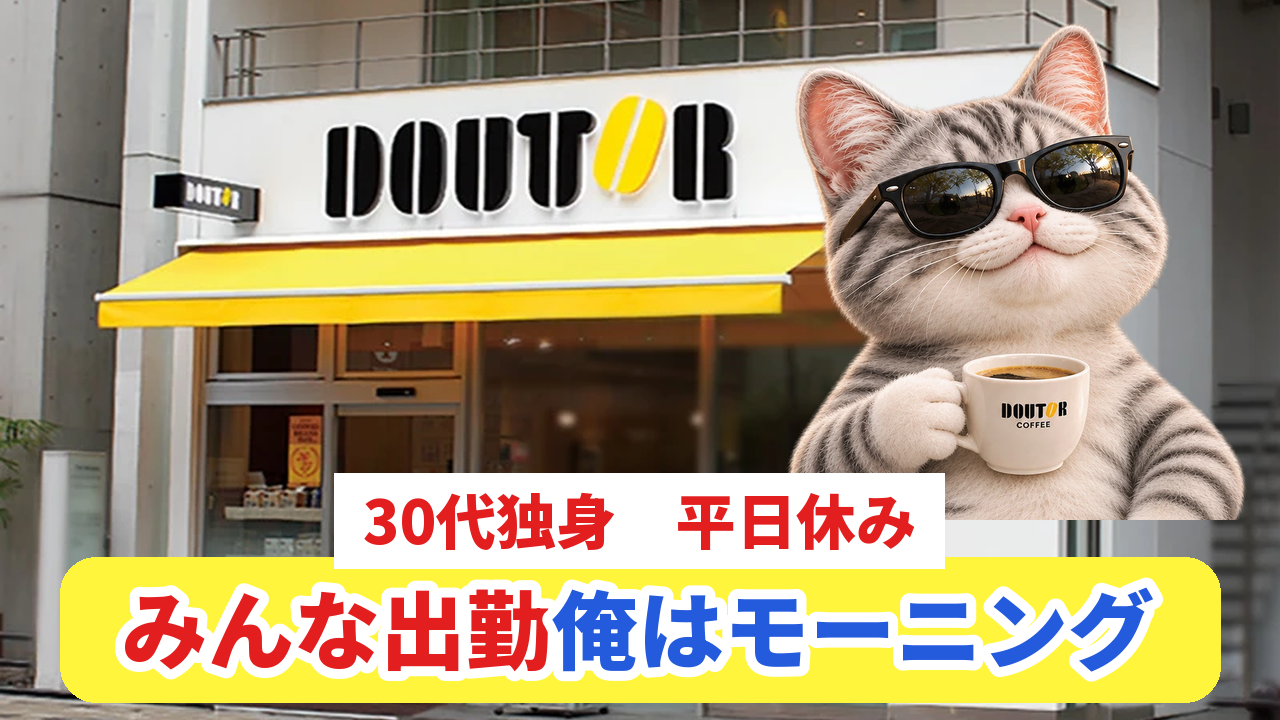
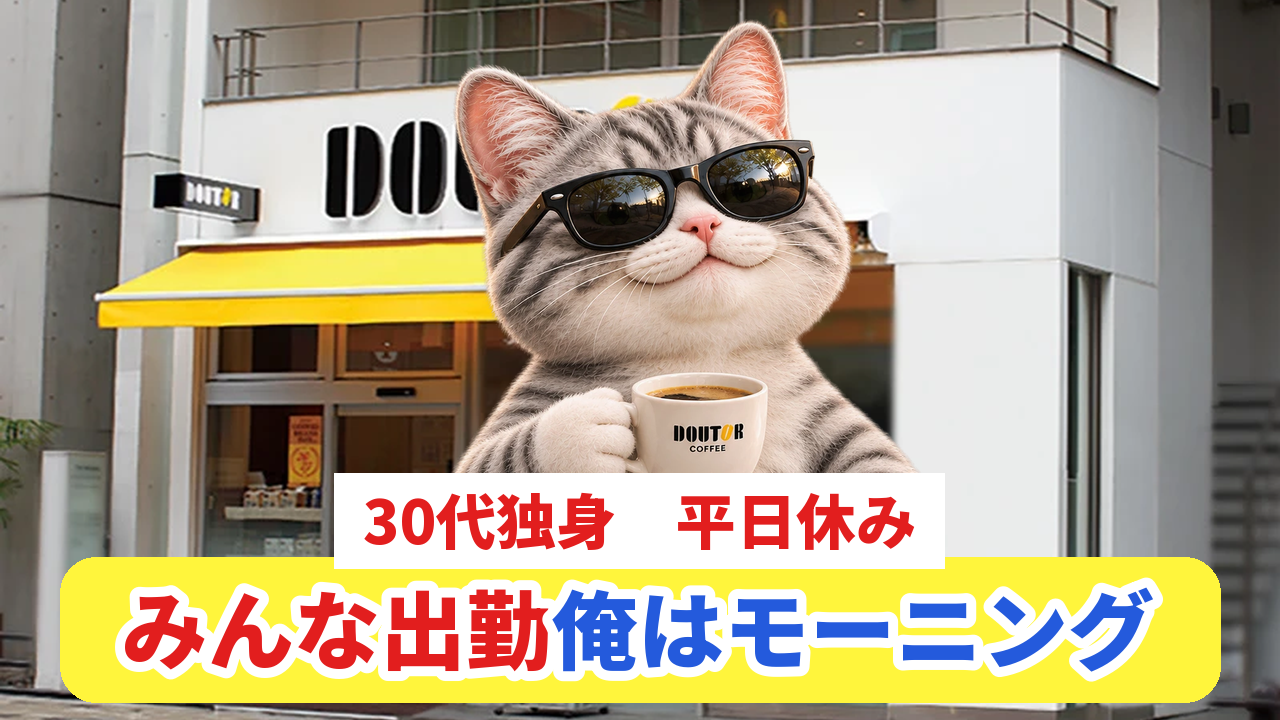
自堕落 #27 ドトール サムネ：猫を真ん中に
Claude-Session: https://claude.ai/code/session_011g9CsrfFD5YswfNSvNDW39

Changed region(s): [[0.3438, 0.0306, 1.0, 0.7333]]

diff --git a/catmeme/make_thumb_doutor.py b/catmeme/make_thumb_doutor.py
@@ -18,9 +18,9 @@ def one(name, runs, tag="30代独身　給料日の夜"):
     img = T.fill_photo("dt01_front", T.W, T.H, cy=0.3)
     cat = Image.open(os.path.join(D, "t_cat_coffee.png")).convert("RGBA")
     cat = cat.crop((0, 0, cat.width, int(cat.height * 0.6)))   # 上半身（顔・ドトールのカップまで）
-    k = 600 / cat.width
-    cat = cat.resize((600, int(cat.height * k)), Image.LANCZOS)
-    img.alpha_composite(cat, (T.W - cat.width - 10, T.H - cat.height - 200))   # 右寄せ：左の DOUTOR の看板と、猫のカップが見えるように
+    k = 640 / cat.width
+    cat = cat.resize((640, int(cat.height * k)), Image.LANCZOS)
+    img.alpha_composite(cat, ((T.W - cat.width) // 2, T.H - cat.height - 170))   # 11/23 ユーザー指定：猫は真ん中
     big = T.runs(runs, 170, 10, T.W - 220)
     bh = big.height + 40
     by = T.H - bh - 18
